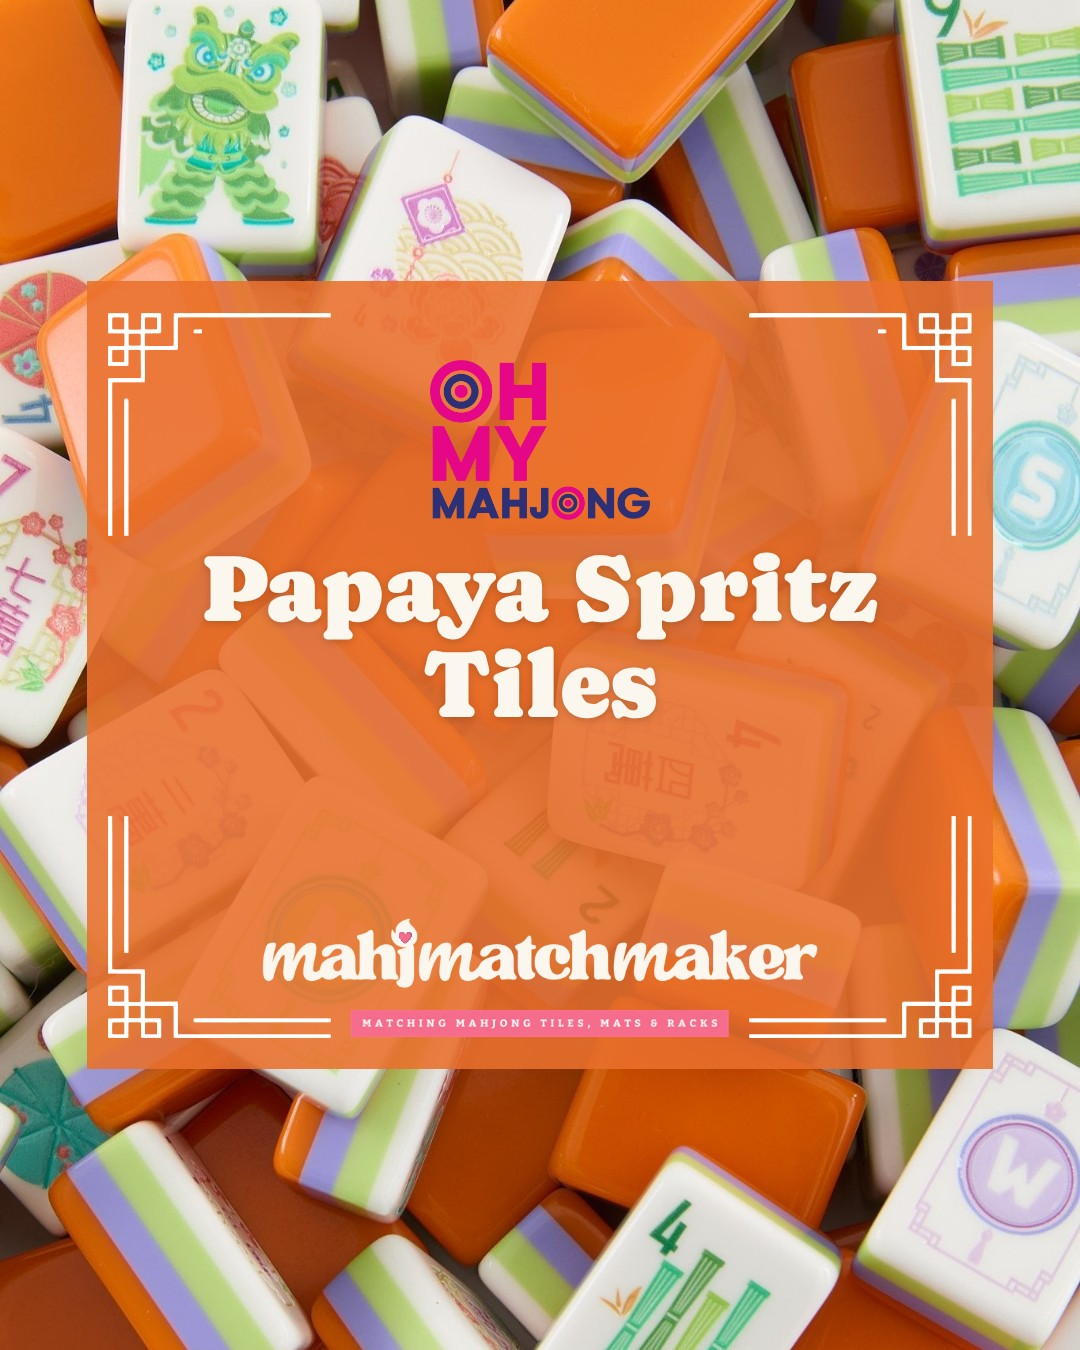
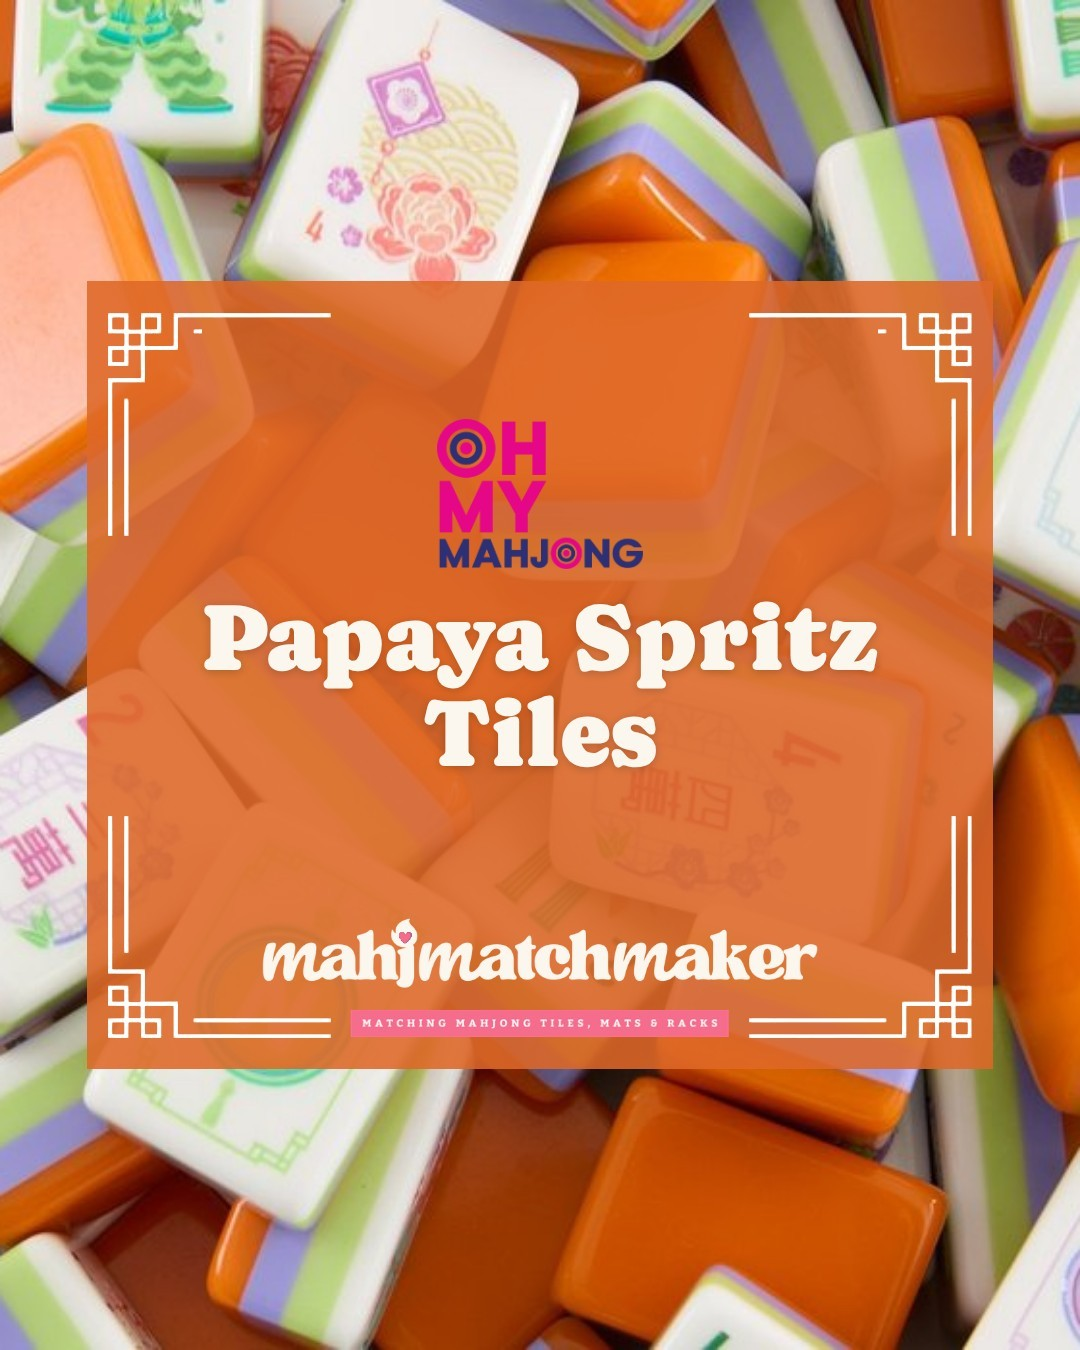
Ready to Ship: action list for Oct 18 responses; Papaya Goldie card bright photo
Claude-Session: https://claude.ai/code/session_014aKoC1ZMdZPjGkZ9kHhnLk

diff --git a/work/hq-actions/workwith-v2.html b/work/hq-actions/workwith-v2.html
@@ -1,0 +1,61 @@
+<!doctype html><html lang="en"><head><meta charset="utf-8"><meta name="viewport" content="width=device-width,initial-scale=1"><title>Work With Preview</title><style>:root{color-scheme:light}body{margin:0;padding:24px 16px;background:#f6f1eb;font-family:Poppins,system-ui,sans-serif}.pv{max-width:880px;margin:0 auto 14px;font-size:13px;color:#6f6670}</style></head><body><p class="pv">Preview of the hidden Work with Mahj Matchmaker page (linked from the partner email). v2: friendlier tone, partner page and Find Your Match sections rewritten from your notes, samples moved into an FAQ. The contact form sits under it on the real page.</p>
+<style>
+.mmbg{--ink:#1e3a5f;--rose:#c8456f;--blush:#fdf2f5;--sand:#faf7f2;--line:#ead9df;max-width:880px;margin:0 auto;background:#fff;padding:36px 40px;border-radius:18px;color:var(--ink);line-height:1.65;font-size:17px}
+.mmbg *{box-sizing:border-box}
+.mmbg h1,.mmbg h2,.mmbg h3,.mmbg p,.mmbg li,.mmbg summary{color:var(--ink)}
+.mmbg a{color:var(--rose)}
+.mmbg .eyebrow{text-transform:uppercase;letter-spacing:.14em;font-size:.72em;font-weight:700;color:var(--rose);margin:0 0 6px}
+.mmbg h1{font-size:2.3em;line-height:1.15;margin:0 0 12px}
+.mmbg .dek{font-size:1.08em;margin:0 0 10px}
+.mmbg section{margin:40px 0}
+.mmbg h2{font-size:1.5em;margin:0 0 12px;line-height:1.25}
+.mmbg .grid{display:grid;grid-template-columns:repeat(3,minmax(0,1fr));gap:16px}
+.mmbg .card{background:var(--sand);border:1px solid var(--line);border-radius:16px;padding:18px 20px}
+.mmbg .card h3{font-size:1.05em;margin:0 0 6px}
+.mmbg .card p{margin:0;font-size:.95em}
+.mmbg details{border-bottom:1px solid var(--line);padding:14px 0}
+.mmbg summary{font-weight:700;cursor:pointer;font-size:1.02em}
+.mmbg details p{margin:10px 0 0}
+@media (max-width:700px){.mmbg{padding:24px 18px;font-size:16px}.mmbg .grid{grid-template-columns:1fr}.mmbg h1{font-size:1.9em}}
+</style>
+<div class="mmbg">
+  <p class="eyebrow">For mahjong brands</p>
+  <h1>Let's make some matches together!</h1>
+  <p class="dek">Hi, I'm Tiffany! Thank you so much for your interest in Mahj Matchmaker. Matching tiles with the mats and racks that make them shine is my favorite thing, and I love helping players fall for brands like yours.</p>
+  <p class="dek">Here's what partnering with Mahj Matchmaker looks like.</p>
+
+  <section>
+    <h2>Your own partner brand page</h2>
+    <p>Every partner brand gets its own page on mahjmatchmaker.com, highlighting my favorite products and picks from your line, plus every place players can find your products across the site: tile set albums, matches and blog articles. Your code (MAHJMATCH) is front and center, and every product links straight to your shop, so it's easy for players to go from "oh, I love that" to checkout.</p>
+  </section>
+
+  <section>
+    <h2>Find Your Match, launching October 27</h2>
+    <p>Find Your Match is our new swipe-to-match tool. Players start with the tiles they own or the mat they love, swipe through the mats and racks I'd pair with them, and save a match card to share with their mahj group.</p>
+    <p>There's nothing you need to upload. If your shop runs on Shopify, I pull your catalog in automatically, and your products are set up for desktop, mobile and the shareable match cards. With a very large line, I curate my favorites so the matching stays focused and every product gets a fair shot.</p>
+  </section>
+
+  <section>
+    <h2>Ways we work together</h2>
+    <div class="grid">
+      <div class="card"><h3>Affiliate partnership</h3><p>Your partner brand page, a spot on our Discount Codes page, and your products in Find Your Match and my match albums. Players save with code MAHJMATCH.</p></div>
+      <div class="card"><h3>New releases</h3><p>Tell me what's coming! I can match new tile sets, mats and racks as they launch, so players see them with pairings on day one.</p></div>
+      <div class="card"><h3>Match albums</h3><p>Partner brands get preference when I choose tile sets for new match albums. Have a set you'd love to see? Let me know.</p></div>
+    </div>
+  </section>
+
+  <section>
+    <h2>FAQ</h2>
+    <details><summary>Do you offer paid placements?</summary><p>No. I don't offer any paid placements on the site.</p></details>
+    <details><summary>Do you accept product samples?</summary><p>Yes! Many brands send samples for color matching. Sample sets or swatches are very helpful for getting the best color match, but they aren't required for a partnership. If you have a new product launching soon, reach out with the details and we can talk about it.</p></details>
+    <details><summary>Does every partner brand get a match album?</summary><p>Partner brands are given preference for a match album for at least one tile set in their line. An album isn't guaranteed and often won't be immediate. Which sets get albums is always at my discretion: I weigh market demand, uniqueness, artistic quality and seasonality, plus my own taste. Our readers send album requests all the time, and I keep track of the most-requested sets and weigh that heavily. If there's a set from your line you'd love to see in an album, tell me and I'll do my best to honor it. And yes, a brand can absolutely get more than one album!</p></details>
+    <details><summary>Will you review my products on your blog?</summary><p>A first-hand review means I've held it, used it or played with it, so I only write those for products I have in hand. Products can still be recommended on the site for other reasons, like how well they match. Sending a sample doesn't guarantee a feature or a positive review: you'll always get my honest opinion.</p></details>
+    <details><summary>How do players find my products?</summary><p>Through your partner brand page, the Discount Codes page, my tile set albums, Find Your Match, blog articles and our Facebook group, where we share matches and real-life tables.</p></details>
+  </section>
+
+  <section>
+    <h2>Say hello!</h2>
+    <p>Use the form below and tell me a little about your brand. I can't wait to see what you make!</p>
+  </section>
+</div>
+</body></html>

diff --git a/work/hq-actions/2026-10-18.md b/work/hq-actions/2026-10-18.md
@@ -1,0 +1,62 @@
+# Ready to Ship responses, Oct 18 (11:00–13:52 ET) and what we did with each
+
+Source: Ready to Ship db "ship" (RTtaTzgkN2ssmiAP3FxvJF). There were no new HQ responses.
+
+## Her Yes answers (approvals)
+| Item | Her answer | Status |
+|---|---|---|
+| APPROVED: New album matches, 28 approved + APPROVED: 4 more cards | Yes (13:11) | Approved: add the cards to 15 live album pages. **Not yet queued**: the hand-off to the site-edit helper was blocked by the permission check. Needs her chat line: "Approve adding the 32 approved Oct 18 cards to their album pages." |
+| From the Vault: Shangri La, final check | Yes (12:28) | Approved: page goes live and joins Mahjong Matches. **Not yet queued** (same block). Chat line: "Approve publishing the Shangri La album page." |
+| Sunday Tile Set album: final check | Yes + "Remove Fall Flowers" (12:05) | Held. Her c5-sunday note says "Logo flag is in wrong place. Order is good." The flag needs fixing and Fall Flowers removing, then it goes live. |
+| Papaya Spritz album order | Yes + order saved (13:11); l-pap-order3: "Cancel 51-53", "my Goldie is brighter", "keep the order" | Done: 50 cards in her exact order. #51–53 cancelled. Goldie re-rendered from assets/mats/clean/goldie-omm.png (bright, 1946px). New item "Papaya Spritz album: final cards in your order" with the full gallery for a real final check. |
+| Peony & Parasol cards (15) | Yes (13:12) | Cards approved. The item had no "on your yes" action, so next step (add to the 15 tile albums) needs a new item or chat line. |
+
+## Her change notes (our work)
+- **Brownstone Bloom** (c5 + l-final):
+  - Cancel Jardín, Sedona, Fall Fling, Saddles & Silk, Handbook, Plaid, Nantucket Basket, Nantucket Rope, Harvest Plaid and Midnight Garden.
+  - Send one more round of missing mats, including the full Amanda Toppe catalog.
+  - Check the resolution of all cards. The AR logo is missing. Tile and mat racks are missing.
+  - TODO.
+- **Sunday**: the logo flag is in the wrong place; remove Fall Flowers. TODO. Need her reference for the "correct location": the Sunday v3 flag sits bottom-left beside the navy box, the same as the approved Amara and Malachite cards.
+- **Lilac Soiree**: move the OMM flag; cancel Larkspur; order approved. After the fixes it is ready to go live. TODO.
+- **Preppy Soiree**: move the OMM flag; cancel Larkspur and Cognac; order approved. TODO.
+- **Spring Love**: Goldie has the wrong coloring, so check every album's Goldie cards. Move the OMM logo. Order approved; "otherwise ready to launch". She suspects missing matches, since it has only 15 non-holiday ones. TODO. The wrong-image helper (Goldie) overlaps here.
+- **Malachite** (l-mal-cards2):
+  - Brighten the Jardín needlepoint photo everywhere on the site.
+  - Cancel Manor Garden.
+  - White Lotus rack: use MMSIO, not Dijon.
+  - TODO.
+- **FB group cover** (l-fbcover3): the Petalée and Papaya covers have their text too high (mirror the other covers). Move Pearlescent to the foreground. Then swap the new covers into the albums. TODO.
+- **Night of the Raven pin v3**:
+  - Show the lace and plum tablecloths separately, with no overlay.
+  - Less text; lamp and dice dish bigger.
+  - One title, visual first.
+  - TODO.
+- **Night of the Raven stories v2**:
+  - Black tablecloth where the current one is, with plum under it and "Layered lace tablecloth".
+  - Drop the Bodoni-like serif.
+  - A better last card than "whole table".
+  - TODO.
+- **Automation emails**: DONE, re-presented as "Automation emails v2". Adds the not-in-catalog colorway line and the IRL upload + FB group line.
+- **Launch newsletter**: DONE, re-presented as v2. More excitement, 35+ brands, FB group, IRL uploads and album requests. Her feedback-form question is answered in the item.
+- **FB group description**: DONE, re-presented as v2 with a fun tone.
+- **Work With page**: DONE. Preview artifact Q8RhYaJwAxYHwXGLGavrEC v2 (copy at work/hq-actions/workwith-v2.html), re-presented as "Work with page v2".
+- "Already sent" (Malachite new, Spirit) and "Find Your Match: I have a mat" ("I love it") are acknowledged. The Find Your Match feedback is coming via chat.
+- "This is old, clear out" (FB cover 2 options): removed.
+
+## Drafts (still typing, left alone)
+None remaining that weren't also sent as notes.
+
+## Locked items: cause and fix (Ready to Ship v83)
+- **Cause 1:** six image bundles (~46 MB of embedded card images) loaded before the page script, so on a phone the page sat half-built.
+  - **Fix:** removed them. The 92 gallery images are now served as files (g/NNN.jpg), and the page loads in under a second.
+- **Cause 2:** the chips counted items across hidden and parked sections ("12/15") and were plain links that don't scroll inside the artifact frame. Every waiting item had been parked in the collapsed Social box, so the visible sections looked empty.
+  - **Fix:** each chip now shows "N waiting" for its own section. Added Social and Answered chips. Tapping a chip scrolls there and opens collapsed boxes. Empty sections say "Nothing waiting on you here."
+- **Tested** in Playwright against her live db rows:
+  - Almost live 1 (Papaya final)
+  - Take a look 1 (Vivienne order)
+  - Cards 2
+  - Decisions 4 (copy v2)
+  - Social 11
+  - Answered 34
+- **Template:** ship5_tpl.html / ship5_build.py still contain the old chips and counts. Port the fix before the next full rebuild, or edit rtspub/index_new.html directly.
